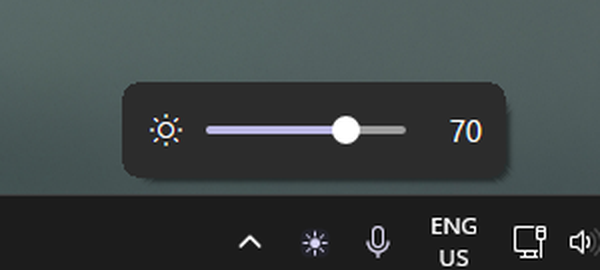
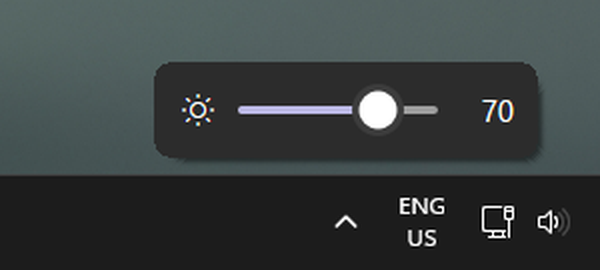
chore: release v0.2.1

Changed region(s): [[0.0, 0.2074, 1.0, 1.0], [0.48, 0.8593, 0.57, 0.9481], [0.39, 0.8593, 0.45, 0.9185]]

diff --git a/PROGRESS.md b/PROGRESS.md
@@ -455,6 +455,10 @@ matching the Windows 11 volume flyout:
 | Unit tests | `cargo test` | 30 pass (new thumb-scale test) ✅ |
 | Clippy | `cargo clippy --all-targets` | same 7 bin / 8 test warnings ✅ |
 
+Released as v0.2.1 with a refreshed `assets/screenshot.png` that shows the
+hovered thumb. Local artifacts: `brighty.exe` 312.320 B,
+`brighty-0.2.1-setup.exe` 2.269.802 B, `brighty-0.2.1-win64.zip` 203.014 B.
+
 ## GitHub release (CI)
 
 The workflow `.github/workflows/release.yml` builds the package on `windows-latest`
